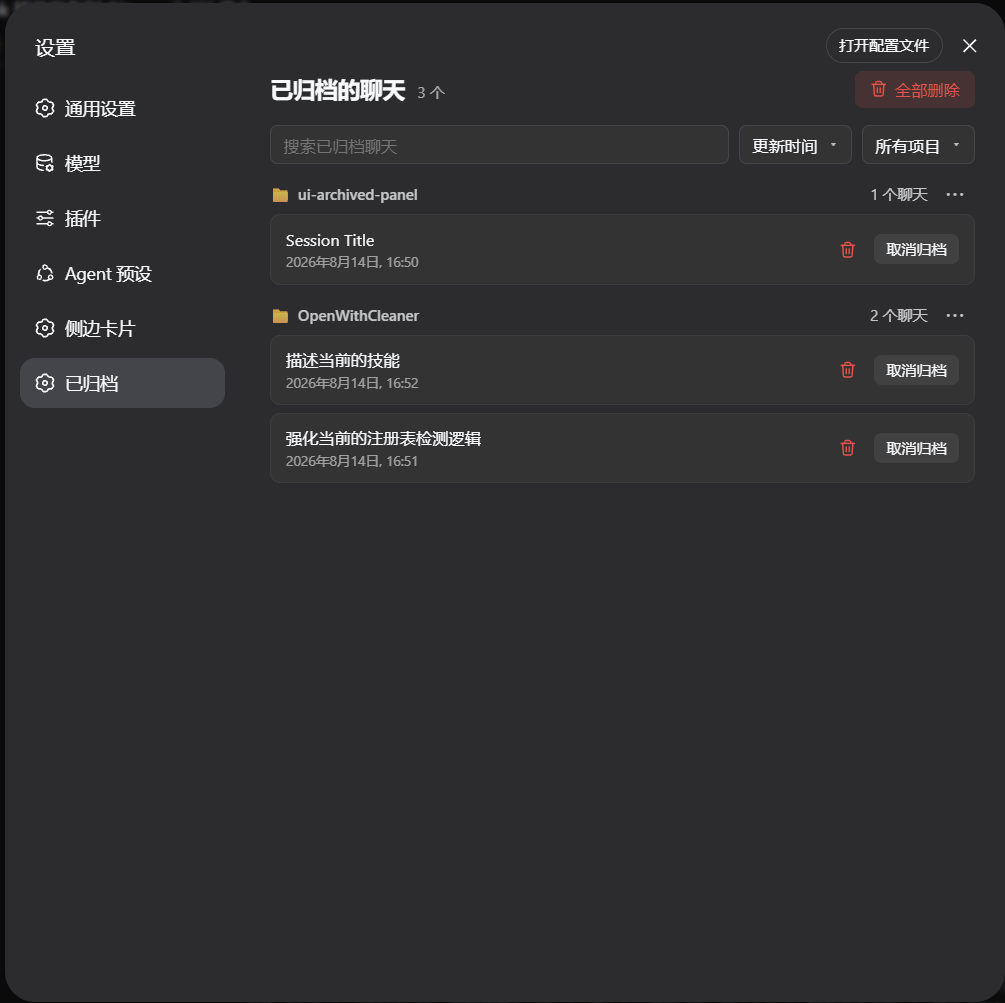
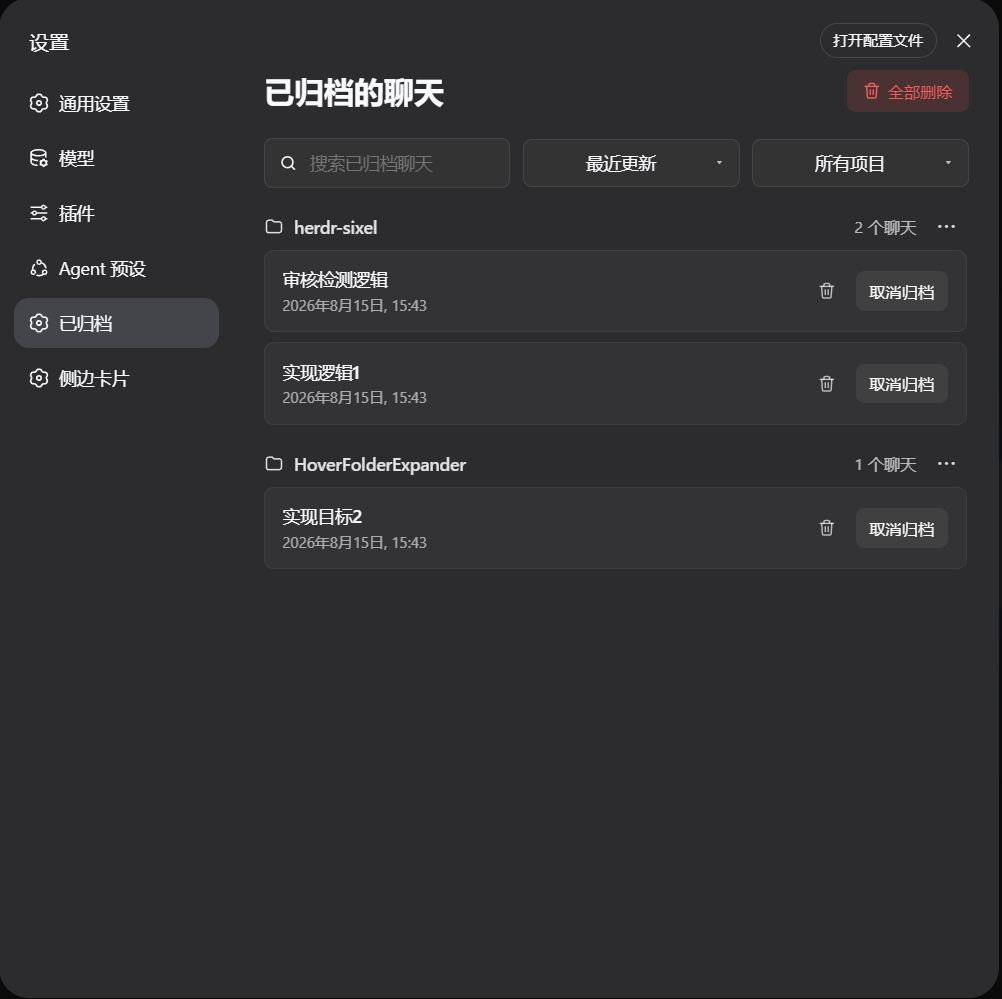
Refresh README screenshots and documentation

diff --git a/README.md b/README.md
@@ -1,80 +1,74 @@
-# dsh-better-archive
+# DSH Better Archive
 
-DSH 网页 GUI 的「已归档会话」面板插件：在侧边栏设置区新增「已归档」入口，列出所有已归档会话，支持**取消归档**、单个/批量**永久删除**（按项目删除 / 全部删除）。
+> 为 [DeepSeek Harness (DSH)](https://github.com/deepseek-ai/deepseek-harness) Web GUI 提供完整、可管理的已归档会话视图。
 
-> A DeepSeek Harness (DSH) web-GUI plugin that adds an "Archived" panel to the sidebar settings area — list archived sessions, **unarchive** them, or **permanently delete** them (per project / all).
+`dsh-better-archive` 会在 DSH 侧边栏的设置区域新增「已归档」入口。你可以查找和筛选归档会话、恢复会话，或按需永久删除不再需要的归档记录。
 
-## 截图 / Screenshots
+## 界面
 
-| 深色 / Dark | 浅色 / Light |
-| --- | --- |
-| <img src="./assets/screenshot-dark.png" alt="Dark theme" width="360"/> | <img src="./assets/screenshot-light.png" alt="Light theme" width="360"/> |
+| 深色模式 | 浅色模式 |
+| :---: | :---: |
+| <img src="./assets/screenshot-dark.png" alt="深色模式下的已归档会话页面" width="420" /> | <img src="./assets/screenshot-light.png" alt="浅色模式下的已归档会话页面" width="420" /> |
 
-## 特性 / Features
+## 功能
 
-- 侧边栏设置区新增「已归档」入口（挂载到 `settings.section` slot）。
-- **跟随 DSH 语言设置**：侧边栏入口与面板文案均接入 DSH 的 i18n 系统（`dsh-client-locale`），中文模式下显示中文、英文模式下显示英文，切换语言实时生效、无需刷新。
-- 按项目分组列出已归档会话，支持搜索、按更新时间/字母排序、按项目筛选。
-- **取消归档**：补齐 DSH `WorkspaceRegistry` 缺失的 unarchive 能力。它与 `archiveSession` 走完全相同的持久化路径；取消归档后 api-proxy 自动推送 `host/archived-sessions-changed`，浏览器会话列表即时刷新。
-- **永久删除**：单个删除、按项目删除、全部删除（带确认弹窗，删除会话日志与工作区/归档记账）。
+- 在 DSH 设置区提供独立的「已归档」页面。
+- 按项目查看归档会话；支持关键词搜索、项目筛选，以及按更新时间或名称排序。
+- 一键取消归档。恢复后会话会立即回到 DSH 的正常会话列表。
+- 支持删除单个会话、某个项目下的全部归档会话，或清空全部归档会话。
+- 页面文案跟随 DSH 的语言设置，中英文切换无需刷新页面。
 
-## 安装 / Install
+## 安装
 
-> 需要 Node.js 22.19+ 与 pnpm（`dsh plugin` 底层通过 pnpm 安装）。
+需要 Node.js 22.19+ 和 pnpm。
 
 ```sh
-# 从 GitHub 直接安装（无需 npm 发布）
 dsh plugin --profile web add github:huahai0202/dsh-better-archive
 ```
 
-安装后重启 `dsh web`。安装会自动把本包加入 profile 的 `dsh.profile.bundles`：
+安装完成后重启 `dsh web`。插件会自动加入该 profile 的 `dsh.profile.bundles`；若未自动加入，请在该数组中添加 `"dsh-better-archive"`，然后重启 DSH Web。
 
-```json
-"bundles": [ "...", "dsh-better-archive" ]
-```
-
-若未自动加入，手动追加该数组项，然后重启 `dsh web`。
-
-本地开发时可用路径安装：
+## 本地开发
 
 ```sh
 dsh plugin --profile web add <path-to-this-checkout>
 ```
 
-## 结构 / Structure
+本地修改后重启 `dsh web`，以加载最新的插件代码。
 
-```
-dsh-better-archive/
-  package.json         # 包清单 + dsh.bundle.patch / dsh.client 声明
-  cordis.patch.yml     # host 半挂载行（profile bundle 机制自动应用）
-  lib/
-    index.js           # Host 半：/archived/* HTTP 路由
-    client.js          # 浏览器半：侧边栏入口 + 归档面板（React，零构建）
-  LICENSE
-  README.md
-```
-
-## Host 路由 / Routes
-
-| 路由 | 方法 | 说明 |
-| --- | --- | --- |
-| `/archived/unarchive` | POST | body `{ sessionId }`，取消归档 |
-| `/archived/delete` | POST | body `{ sessionId }`，永久删除单个会话 |
-| `/archived/delete-project` | POST | body `{ cwd }`，删除某项目全部归档会话 |
-| `/archived/delete-all` | POST | body `{ confirm: true }`，删除全部归档会话 |
-
-删除实现以 DSH `0.1.0-rc.6` 默认的 JSONL 会话后端为目标：会话日志位于独立的会话目录中，删除会移除该目录及其工作区记账；DSH 的内容寻址附件由平台独立保留，不随会话日志删除。
-
-## 配置 / Configuration
-
-无。插件零配置挂载。
-
-## 开发 / Development
+提交前可运行以下检查：
 
 ```sh
 node --check lib/index.js
 node --check lib/client.js
-npm pack --dry-run   # 发布前的打包校验
+npm pack --dry-run
+```
+
+## 删除行为
+
+永久删除只作用于已归档会话，操作前会要求确认。针对 DSH `0.1.0-rc.6` 的默认 JSONL 会话存储，插件会删除会话专属目录，并同步移除对应的工作区与归档记账。
+
+DSH 的内容寻址附件由 DSH 独立管理，因此不会随会话记录一起删除。
+
+## 开发接口
+
+| 路由 | 方法 | 用途 |
+| --- | --- | --- |
+| `/archived/unarchive` | `POST` | 取消归档一个会话 |
+| `/archived/delete` | `POST` | 永久删除一个归档会话 |
+| `/archived/delete-project` | `POST` | 删除一个项目的全部归档会话 |
+| `/archived/delete-all` | `POST` | 删除全部归档会话 |
+
+## 目录
+
+```text
+dsh-better-archive/
+├── lib/
+│   ├── index.js        # DSH Host 路由与会话操作
+│   └── client.js       # 归档页面与侧边栏入口
+├── cordis.patch.yml    # Host 挂载配置
+├── package.json        # 插件声明
+└── assets/             # README 截图
 ```
 
 ## License
